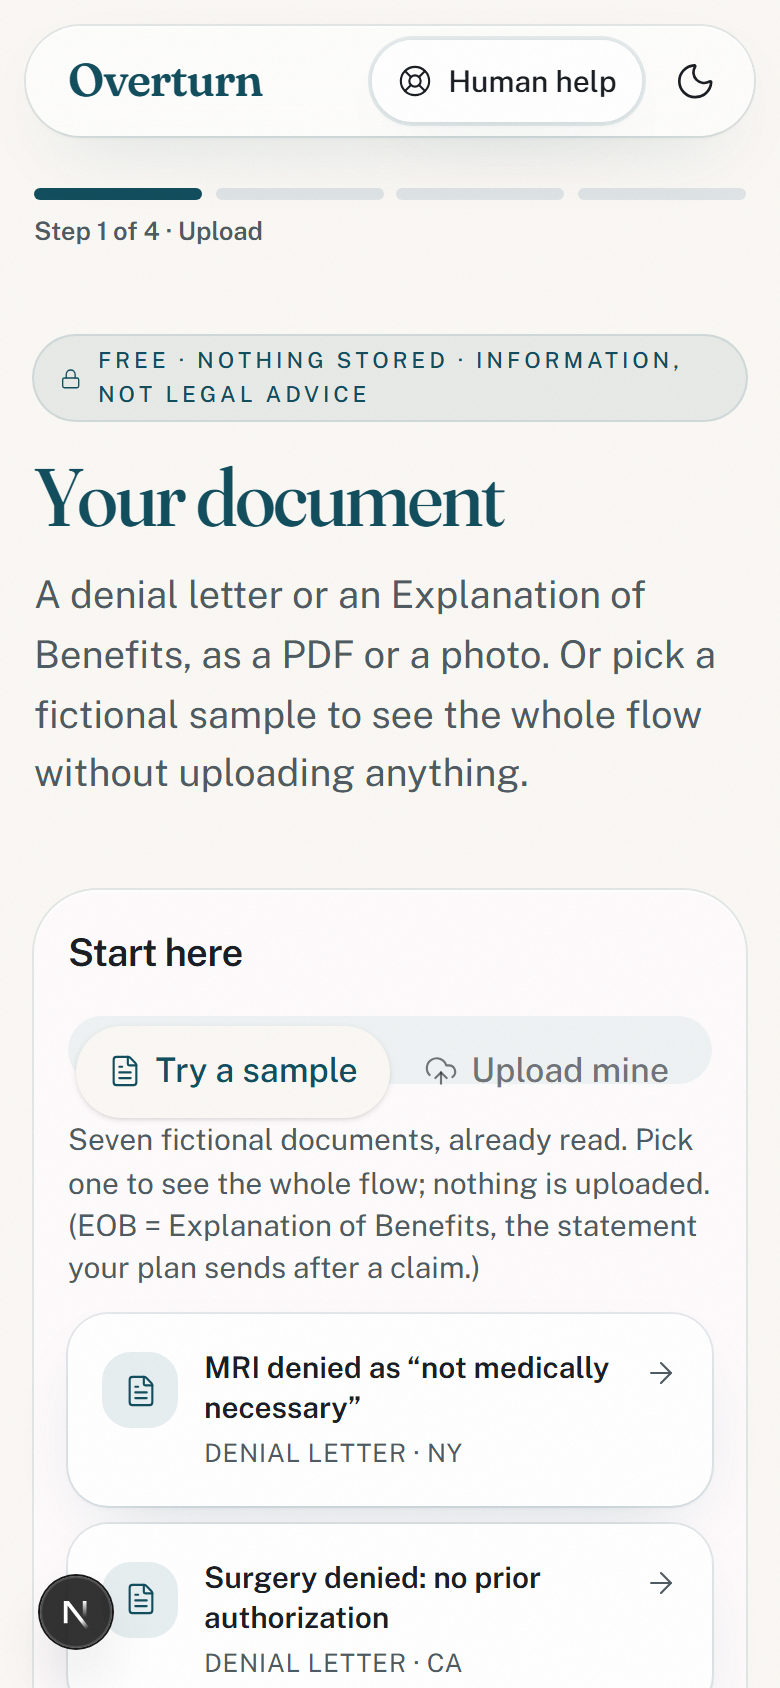
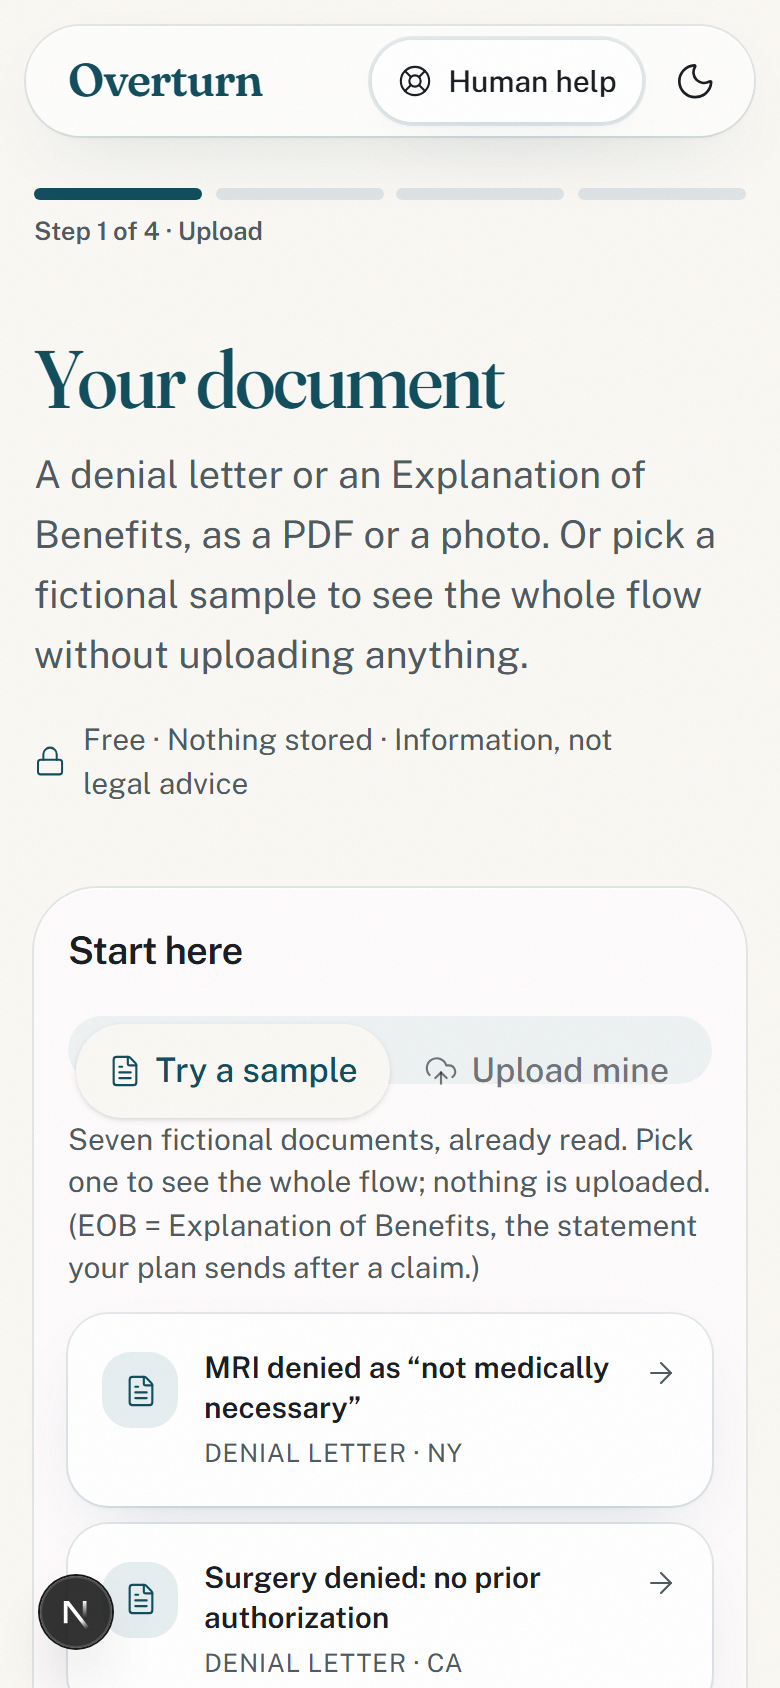
Phone audit fixes: readable facts, flatter rule cards, footnote citations
- Fact cards stack label/value; the source control sits on the label row (values no longer squeezed to a third of the width)
- Rule cards: "why" and caveat as text, no boxes inside the card
- Letter: citations show as [n] footnotes on screen with a numbered reference list; full citations stay in copy and PDF
- Bottom line keeps acronyms intact ("the MRI", not "the mRI")
- Disclosure and logo hit targets at 44px; select chevron stays inside the control at any width
- Start page: trust line under the intro instead of a kicker above the heading
- Selection, caret and native control accents take the brand color
- Screenshots regenerated

diff --git a/app/letter/page.tsx b/app/letter/page.tsx
@@ -155,8 +155,8 @@ function LetterView({ situation, sampleId }: { situation: Situation; sampleId?: 
           <AiLabel what="Drafted by AI from your facts and rights" />
         </div>
         <p className="mt-2 text-muted-foreground">
-          A draft written in the first person, for you to finish. Fill in the blanks below, then tap any part of the letter to edit it. The bracketed
-          legal references are part of the letter; the plan expects them.
+          A draft written in the first person, for you to finish. Fill in the blanks below, then tap any part of the letter to edit it. The small
+          numbers point to the laws cited; the full citations are written into the letter you download or copy.
         </p>
       </header>
 
@@ -214,7 +214,7 @@ function LetterView({ situation, sampleId }: { situation: Situation; sampleId?: 
               <button type="button" onClick={() => setEditing(sec.id)} className="w-full text-left" aria-label={`Edit section: ${sec.heading || sec.id}`}>
                 {sec.heading && <p className="font-serif font-semibold">{sec.heading}</p>}
                 <div className="whitespace-pre-line font-serif text-[1.05rem] leading-relaxed">
-                  <LetterRichText text={sec.text} />
+                  <LetterRichText text={sec.text} numbering={rules.map((r) => r.id)} />
                 </div>
                 <span className="pointer-events-none absolute right-2 top-2 inline-flex items-center gap-1 rounded-md bg-card px-2 py-1 text-xs text-muted-foreground opacity-0 shadow-sm group-hover:opacity-100 group-focus-within:opacity-100">
                   <Pencil className="size-3" aria-hidden="true" /> Edit
@@ -289,16 +289,19 @@ function LetterView({ situation, sampleId }: { situation: Situation; sampleId?: 
           <h2 id="refs" className="font-semibold text-foreground">
             References used in this letter
           </h2>
-          <ul className="mt-2 space-y-1">
-            {rules.map((r) => (
-              <li key={r.id}>
+          <ol className="mt-2 list-none space-y-1.5">
+            {rules.map((r, i) => (
+              <li key={r.id} id={`ref-${r.id}`} className="flex gap-2 scroll-mt-24">
+                <span className="w-6 shrink-0 font-medium text-primary tnum">[{i + 1}]</span>
+                <span>
                 {r.legal_ref} — {r.title}.{" "}
                 <a href={r.source_url} target="_blank" rel="noopener noreferrer" className="text-primary underline underline-offset-4 decoration-primary/40 hover:decoration-primary">
                   source
                 </a>
+                </span>
               </li>
             ))}
-          </ul>
+          </ol>
         </section>
       )}
 

diff --git a/components/fact-card.tsx b/components/fact-card.tsx
@@ -31,23 +31,21 @@ export function FactCard({
 
   return (
     <div className={cn("surface rounded-xl p-4", needsAttention && "border-warning/70")}>
-      <div className="flex items-start justify-between gap-3">
-        <div className="min-w-0">
-          <p className="text-xs font-medium uppercase tracking-wide text-muted-foreground">{label}</p>
-          <p className={cn("mt-1 break-words text-base", absent && "italic text-muted-foreground")}>{display}</p>
-        </div>
+      <div className="flex items-center justify-between gap-3">
+        <p className="text-xs font-medium uppercase tracking-wide text-muted-foreground">{label}</p>
         {!absent && field.quote && (
           <button
             type="button"
             onClick={() => setShowQuote((v) => !v)}
             aria-expanded={showQuote}
-            className="inline-flex min-h-11 shrink-0 items-center gap-1 rounded-md px-2 text-sm text-primary underline underline-offset-4 decoration-primary/40 hover:decoration-primary"
+            className="-mr-2 inline-flex min-h-11 shrink-0 items-center gap-1 rounded-md px-2 text-sm text-primary underline underline-offset-4 decoration-primary/40 hover:decoration-primary"
           >
             <Quote className="size-4" aria-hidden="true" />
             {showQuote ? "Hide source" : "Where is this from?"}
           </button>
         )}
       </div>
+      <p className={cn("mt-1 break-words text-base", absent && "italic text-muted-foreground")}>{display}</p>
 
       {showQuote && field.quote && (
         <blockquote className="mt-3 border-l-2 border-primary/40 pl-3 font-serif text-sm text-muted-foreground">

diff --git a/components/letter-text.tsx b/components/letter-text.tsx
@@ -6,7 +6,7 @@ import { ALL_RULES } from "@/lib/rules/load";
  * becomes a small superscript reference to the rule's legal citation. For the
  * downloadable versions, see `letterToPlainText` (citations become footnotes).
  */
-export function LetterRichText({ text }: { text: string }) {
+export function LetterRichText({ text, numbering }: { text: string; numbering?: string[] }) {
   const parts = text.split(/(\[ADD:[^\]]+\]|\[\[cite:[a-z0-9_.]+\]\])/g);
   return (
     <>
@@ -15,9 +15,13 @@ export function LetterRichText({ text }: { text: string }) {
         const m = p.match(/^\[\[cite:([a-z0-9_.]+)\]\]$/);
         if (m) {
           const rule = ALL_RULES.find((r) => r.id === m[1]);
+          // On screen a footnote number keeps the sentence readable; the numbered reference list below spells it out.
+          const n = numbering ? numbering.indexOf(m[1]) + 1 : 0;
+          const label = rule ? `${rule.title} — ${rule.legal_ref}` : m[1];
           return (
-            <sup key={i} className="ml-0.5 font-sans text-[0.7em] text-primary" title={rule ? `${rule.title} — ${rule.legal_ref}` : m[1]}>
-              [{rule ? rule.legal_ref : m[1]}]
+            <sup key={i} className="ml-0.5 font-sans text-[0.7em] font-medium text-primary" title={label}>
+              {n > 0 ? `[${n}]` : `[${rule ? rule.legal_ref : m[1]}]`}
+              <span className="sr-only"> (reference{n > 0 ? ` ${n}` : ""}: {label})</span>
             </sup>
           );
         }

diff --git a/app/start/page.tsx b/app/start/page.tsx
@@ -8,14 +8,14 @@ export default function Home() {
   return (
     <div className="space-y-10">
       <section className="pt-2">
-        <p className="eyebrow">
-          <Lock className="size-3.5" aria-hidden="true" />
-          Free · Nothing stored · Information, not legal advice
-        </p>
-        <h1 className="mt-4 font-serif text-[2.4rem] font-medium leading-[1.05] text-primary sm:text-4xl">Your document</h1>
+        <h1 className="font-serif text-[2.4rem] font-medium leading-[1.05] text-primary sm:text-4xl">Your document</h1>
         <p className="mt-3 max-w-prose text-lg text-muted-foreground">
           A denial letter or an Explanation of Benefits, as a PDF or a photo. Or pick a fictional sample to see the whole flow without
           uploading anything.
+        </p>
+        <p className="mt-4 inline-flex items-center gap-2 text-sm text-muted-foreground">
+          <Lock className="size-4 text-primary" aria-hidden="true" />
+          Free · Nothing stored · Information, not legal advice
         </p>
       </section>
 

diff --git a/components/rights-card.tsx b/components/rights-card.tsx
@@ -33,13 +33,13 @@ export function RightsCard({ applied, highlight = false }: { applied: AppliedRul
       </div>
       <h3 className="mt-2 text-lg font-semibold leading-snug">{rule.title}</h3>
       <p className="mt-2 text-base">{rule.summary}</p>
-      <p className="mt-3 rounded-lg bg-muted/70 p-3 text-sm">
-        <span className="font-medium">Why this applies to you: </span>
+      <p className="mt-3 text-sm text-muted-foreground">
+        <span className="font-medium text-foreground">Why this applies to you: </span>
         {why}
       </p>
       {caveat && (
-        <p className="mt-2 flex items-start gap-2 rounded-lg border border-warning/50 bg-warning/5 p-3 text-sm">
-          <Info className="mt-0.5 size-4 shrink-0 text-warning" aria-hidden="true" />
+        <p className="mt-3 flex items-start gap-2 text-sm text-warning">
+          <Info className="mt-0.5 size-4 shrink-0" aria-hidden="true" />
           <span>{caveat}</span>
         </p>
       )}

diff --git a/components/site-chrome.tsx b/components/site-chrome.tsx
@@ -20,7 +20,7 @@ export function SiteHeader() {
       {/* A floating glass island rather than an edge-to-edge bar: the page shows through around it. */}
       <div className="mx-auto flex h-13 max-w-[1040px] items-center justify-between gap-3 rounded-full bg-card/75 pl-5 pr-2 shadow-[inset_0_1px_0_var(--highlight),0_0_0_1px_var(--hairline),var(--shadow-ambient)] backdrop-blur-xl supports-[backdrop-filter]:bg-card/65">
         <div className="flex items-center gap-6">
-          <Link href="/" className="font-serif text-[1.35rem] font-semibold tracking-tight text-primary" style={{ fontVariationSettings: '"opsz" 32, "SOFT" 40' }}>
+          <Link href="/" className="inline-flex min-h-11 items-center font-serif text-[1.35rem] font-semibold tracking-tight text-primary" style={{ fontVariationSettings: '"opsz" 32, "SOFT" 40' }}>
             Overturn
           </Link>
           <nav aria-label="Site" className="hidden items-center gap-1 text-sm sm:flex">

diff --git a/components/native-select.tsx b/components/native-select.tsx
@@ -7,13 +7,10 @@ import { cn } from "@/lib/utils";
  */
 export function NativeSelect({ className, children, ...props }: React.ComponentProps<"select">) {
   return (
-    <div className="relative">
+    <div className={cn("relative", className)}>
       <select
         {...props}
-        className={cn(
-          "h-11 w-full appearance-none rounded-lg border border-input bg-card px-3 pr-9 text-base text-foreground focus-visible:outline-3 focus-visible:outline-ring",
-          className,
-        )}
+        className="h-11 w-full appearance-none rounded-lg border border-input bg-card px-3 pr-9 text-base text-foreground focus-visible:outline-3 focus-visible:outline-ring"
       >
         {children}
       </select>

diff --git a/components/deadline-clock.tsx b/components/deadline-clock.tsx
@@ -77,7 +77,9 @@ export function DeadlineClock({ deadline, rule, compact = false }: { deadline: C
 
       {!compact && (
         <details className="mt-4 text-sm">
-          <summary className="cursor-pointer text-muted-foreground underline underline-offset-4 decoration-primary/40 hover:decoration-primary">How this date was calculated</summary>
+          <summary className="flex min-h-11 cursor-pointer items-center text-muted-foreground underline underline-offset-4 decoration-primary/40 hover:decoration-primary">
+            How this date was calculated
+          </summary>
           <div className="mt-2 space-y-2 text-muted-foreground">
             <p>
               {deadline.anchor ? (

diff --git a/components/bottom-line.tsx b/components/bottom-line.tsx
@@ -63,7 +63,9 @@ export function BottomLine({ ex, deadlineDue, daysLeft }: { ex: Extraction; dead
 function shorten(s: string): string {
   // Drop parenthetical billing codes for the headline; they stay in the facts list.
   const clean = s.replace(/\s*\([^)]*\)/g, "").replace(/;\s*/g, " and ").trim();
-  const lower = clean.charAt(0).toLowerCase() + clean.slice(1);
+  // Lowercase the first letter unless the first word is an acronym or code (MRI, CT, TMS).
+  const acronym = /^[A-Z0-9][A-Z0-9-]*(\s|$)/.test(clean);
+  const lower = acronym ? clean : clean.charAt(0).toLowerCase() + clean.slice(1);
   return lower.length > 70 ? lower.slice(0, 67).trimEnd() + "…" : lower;
 }
 

diff --git a/app/globals.css b/app/globals.css
@@ -222,6 +222,14 @@
     font-style: italic;
     font-variation-settings: "opsz" 144, "SOFT" 60, "WONK" 1;
   }
+  ::selection {
+    background: color-mix(in oklch, var(--primary) 22%, transparent);
+    color: var(--foreground);
+  }
+  :root {
+    caret-color: var(--primary);
+    accent-color: var(--primary);
+  }
   /* Lucide ships at 2px; the whole site uses a lighter, more precise line. */
   svg.lucide {
     stroke-width: 1.5;
